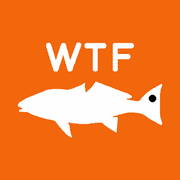
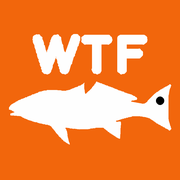
v301: bolder mark, and the SW stops serving stale builds
Header: "WTF Log" and the tagline take a -webkit-text-stroke in currentColor
on top of their 700 weight — Comic Neue has nothing heavier, the same trick
the WTF on the fish has used since v168 — sized per line (.5px/.35px, and
.38px/.25px at the narrow breakpoint) so both lines and the fish lettering
read as one hand at every A setting.

Icon: fish 80% -> 90% of the square, WTF block 49% -> 62%, tighter gap, and
the traced letters take a 1.8%-width centred stroke. Regenerated all three
PNGs via build_icon.py, which still reads the letterforms out of index.html's
#fishP so the icon cannot drift from the splash. iOS keeps a home-screen icon
from Add-to-Home-Screen time — delete and re-add to see it.

sw.js: the background refresh was fetch(e.request), and a navigation request
carries the default cache mode, so it could be answered from the browser's
HTTP cache — with Pages sending max-age=600 that put a second ten-minute layer
of stale on top of the one-open delay the design already has. Now
fetch(SHELL_URL, {cache:'no-store'}), matching the install handler, so two
opens after a deploy genuinely means the new build. The update pill was never
affected; its check is not a navigation. Help's Updates note says so.

diff --git a/index.html b/index.html
@@ -955,12 +955,18 @@ svg.leaflet-image-layer.leaflet-interactive path {
      (--tsb), so the header grows with the rest of the furniture without bursting the bar.
      Line heights are unitless for the same reason — a px line height would clip the
      scaled type. */
+  /* v301: both title lines carry a stroke on top of the 700. Comic Neue has nothing
+     heavier than 700, so - exactly as .logo-wtf does over the fish - the extra weight
+     has to be stroked on in currentColor, which thickens the glyph rather than ringing
+     it. Sized off each line's own type size so the name and the tagline read as one
+     hand: ~.022em, a touch under the .5px the 18px WTF takes. */
   .hdr-left .kicker{
     font-family:var(--comic); font-size:calc(15px * var(--tsb)); font-weight:700; font-style:normal;
     color:var(--teal); text-transform:none; margin-top:1px; letter-spacing:.12em; line-height:1.33;
     width:100%; display:block; white-space:nowrap;
+    -webkit-text-stroke:.35px currentColor;
   }
-  .hdr-left h1{font-family:var(--comic); font-size:calc(23px * var(--tsb)); line-height:1.09; font-weight:700; margin:0; letter-spacing:.01em; white-space:nowrap;}
+  .hdr-left h1{font-family:var(--comic); font-size:calc(23px * var(--tsb)); line-height:1.09; font-weight:700; margin:0; letter-spacing:.01em; white-space:nowrap; -webkit-text-stroke:.5px currentColor;}
   /* align-self overrides the header's own align-items:flex-end. The header bottom-aligns
      its children because the TITLE BLOCK wants that -- the tagline sits on the baseline of
      the bar and the name stacks above it -- but the cookies are a free-standing group of
@@ -1596,8 +1602,8 @@ svg.leaflet-image-layer.leaflet-interactive path {
                 height:70dvh; border-radius:16px; }
     /* Header: shrink so title, tagline, name, logo, and all three buttons fit on-screen */
     header{padding:3px 8px 4px; gap:5px;}
-    .hdr-left h1{font-size:calc(17px * var(--tsb)); line-height:1.12;}
-    .hdr-left .kicker{font-size:calc(10px * var(--tsb)); letter-spacing:.05em; line-height:1.6; margin-top:1px;}
+    .hdr-left h1{font-size:calc(17px * var(--tsb)); line-height:1.12; -webkit-text-stroke:.38px currentColor;}
+    .hdr-left .kicker{font-size:calc(10px * var(--tsb)); letter-spacing:.05em; line-height:1.6; margin-top:1px; -webkit-text-stroke:.25px currentColor;}
     /* Move the name out of the button row: bottom-center of the header, same line as the tagline */
     header{position:relative;}
     .credit{position:absolute; left:50%; transform:translateX(-50%); bottom:6px;
@@ -2705,7 +2711,7 @@ svg.leaflet-image-layer.leaflet-interactive path {
       <p class="sheet-note">Search also looks through this help: type a topic into <b>🔍</b> and matching help sections are listed under their own heading.</p>
       <p class="sheet-note">Any popup that opens on the map — a spot, a catch, a reef with its drops showing — can be <b>dragged anywhere on screen</b> so it isn't covering the pins underneath. <b>On a phone:</b> press and hold anywhere on the popup that isn't a button, then slide your finger; the popup follows and stays put when you lift off. <b>On a computer:</b> click and hold anywhere on the popup that isn't a button or link, then drag. Buttons, links and the scrolling drops list still work normally, so you can drag from the popup's title or body text. The <b>3-Day Tide Forecast</b> panel moves the same way — drag it by its title bar.</p>
       <p class="sheet-note">Don't need to hunt for a close button: tapping anywhere outside an open popup — elsewhere on the map — closes it, and tapping the dimmed background behind an open sheet (Log a Catch, Search, Bite, and the rest) closes that too.</p>
-      <p class="sheet-note"><b>Updates.</b> Phones cache this app hard enough that a new build can hide behind an old copy for days. The app now checks quietly for a newer build — every time it opens, and when it comes back to the foreground (those paced to once every 10 minutes) — and if one is out, a small pill appears above the build stamp: <span class="g-emph">UPDATE AVAILABLE — Tap to Reload</span>. One tap brings the new build in; the ✕ puts it off until next time. No connection, no check — it never interrupts you on the water.</p>
+      <p class="sheet-note"><b>Updates.</b> Phones cache this app hard enough that a new build can hide behind an old copy for days. The app now checks quietly for a newer build — every time it opens, and when it comes back to the foreground (those paced to once every 10 minutes) — and if one is out, a small pill appears above the build stamp: <span class="g-emph">UPDATE AVAILABLE — Tap to Reload</span>. One tap brings the new build in; the ✕ puts it off until next time. No connection, no check — it never interrupts you on the water. Behind that, the app keeps a saved copy of itself so it opens instantly, and fetches the live page in the background for the next open — so even if you never tap the pill, a new build lands the second time you open the app.</p>
       </div>
       <button class="help-topic" type="button" aria-expanded="false" aria-controls="hb-h-themes"><span class="ht-g">🎨</span>Themes<span class="ht-caret">▸</span></button>
       <div class="help-body" id="hb-h-themes">
@@ -2766,6 +2772,7 @@ svg.leaflet-image-layer.leaflet-interactive path {
       <button class="help-topic" type="button" aria-expanded="false" aria-controls="hb-builds">Build Notes<span class="ht-caret">▸</span></button>
       <div class="help-body" id="hb-builds">
       <p class="sheet-note" style="font-size:9.5px; color:var(--muted);">The full notes live in <a href="BUILD_NOTES.txt" target="_blank" rel="noopener" style="color:var(--teal);">BUILD_NOTES.txt</a>.</p>
+      <p class="sheet-note" style="font-size:9.5px; color:var(--muted); margin:2px 0 0;">Build 2026-08-01 · <b>v301</b> · Bolder mark, live updates, fresher shell</p>
       <p class="sheet-note" style="font-size:9.5px; color:var(--muted); margin:2px 0 0;">Build 2026-08-01 · <b>v300</b> · Launches go brown</p>
       <p class="sheet-note" style="font-size:9.5px; color:var(--muted); margin:2px 0 0;">Build 2026-08-01 · <b>v299</b> · Darker launch gray</p>
       <p class="sheet-note" style="font-size:9.5px; color:var(--muted); margin:2px 0 0;">Build 2026-08-01 · <b>v298</b> · USCG MOB line</p>
@@ -3861,7 +3868,7 @@ function showToast(msg, duration=2400){
    v151 nine builds later. Both now read these constants, so a stamp cannot drift out
    of step with the build again. Update these when the build number changes. */
 const BUILD_DATE = '08/01/26';                          // map stamp form
-const BUILD_NUM  = 300;
+const BUILD_NUM  = 301;
 const BUILD_TAG  = 'build 2026-08-01 v' + BUILD_NUM;    // diagnostic-message form
 { const bs = document.getElementById('buildStamp');
   if(bs) bs.textContent = BUILD_DATE + ' Build ' + BUILD_NUM; }

diff --git a/sw.js b/sw.js
@@ -38,7 +38,14 @@ self.addEventListener('fetch', (e) => {
   e.respondWith(
     caches.open(SHELL_CACHE).then((cache) =>
       cache.match(SHELL_URL).then((cached) => {
-        const refresh = fetch(e.request)
+        // no-store, NOT fetch(e.request). A navigation request carries the default cache
+        // mode, so this background refresh could itself be answered from the browser's HTTP
+        // cache — and GitHub Pages serves the page with max-age=600. That put a second,
+        // 10-minute layer of stale on top of the one-open delay this design already has:
+        // deploy, open twice, and you could still be handed the old build. no-store makes
+        // the refresh always go to the network, so the copy saved for the next open is
+        // genuinely the live one. (v301; the same reason install already uses no-store.)
+        const refresh = fetch(SHELL_URL, { cache: 'no-store' })
           .then((res) => {
             if (res && res.ok) cache.put(SHELL_URL, res.clone());
             return res;

diff --git a/tools/build_icon.py b/tools/build_icon.py
@@ -48,20 +48,35 @@ def render(size):
     img = Image.new('RGB', (S, S), BRAND)
     dr  = ImageDraw.Draw(img)
 
-    # Layout, in icon units, then scaled. Everything stays inside the central 80%
-    # so the same file works as an Android maskable icon.
-    fish_w = 0.801 * size          # 410/512
-    wtf_w  = 0.488 * size          # 250/512
-    gap    = 0.055 * size
+    # Layout, in icon units, then scaled. Build 301: the mark was reading small on the
+    # home screen / desktop with a wide band of orange all round, so fish and lettering
+    # both grew and the WTF took a stroke for weight (same trick .logo-wtf uses in the
+    # banner, where Comic Neue's 700 is the heaviest cut there is). The block still
+    # clears the corners iOS and Android round off; it now runs closer to the edges
+    # than Android's central-80% maskable circle, which is a deliberate trade for a
+    # legible mark - the letters and the fish body stay well inside it, only the tail
+    # and snout tips reach past.
+    fish_w = 0.90 * size           # was 0.801
+    wtf_w  = 0.62 * size           # was 0.488
+    gap    = 0.05 * size
     fs = fish_w / F_W
     ls = wtf_w / (L_X1 - L_X0)
     wtf_h, fish_h = (L_Y1 - L_Y0) * ls, F_H * fs
     top = (size - (wtf_h + gap + fish_h)) / 2
 
     lx, ly = (size - wtf_w) / 2, top
+    # The traced letterforms carry one weight, so the extra heft comes from a stroke
+    # ridden round each outline rather than from a bolder cut - the banner's -webkit-text-stroke
+    # in PNG form. Centred on the path, so it thickens the glyph instead of ringing it.
+    bold = max(1, round(0.018 * size * SS))
     for poly in letters:
-        dr.polygon([(((x - L_X0) * ls + lx) * SS, ((y - L_Y0) * ls + ly) * SS)
-                    for x, y in poly], fill=WHITE)
+        p = [(((x - L_X0) * ls + lx) * SS, ((y - L_Y0) * ls + ly) * SS) for x, y in poly]
+        dr.polygon(p, fill=WHITE)
+        dr.line(p + [p[0]], fill=WHITE, width=bold, joint='curve')
+        # joint='curve' rounds the corners it turns but leaves the line ENDS square, so
+        # each vertex still needs a dot of its own or the outline shows nicks.
+        for x, y in p:
+            dr.ellipse([x - bold / 2, y - bold / 2, x + bold / 2, y + bold / 2], fill=WHITE)
 
     fx, fy = (size - fish_w) / 2, top + wtf_h + gap
     dr.polygon([((x * fs + fx) * SS, (y * fs + fy) * SS) for x, y in fish], fill=WHITE)
